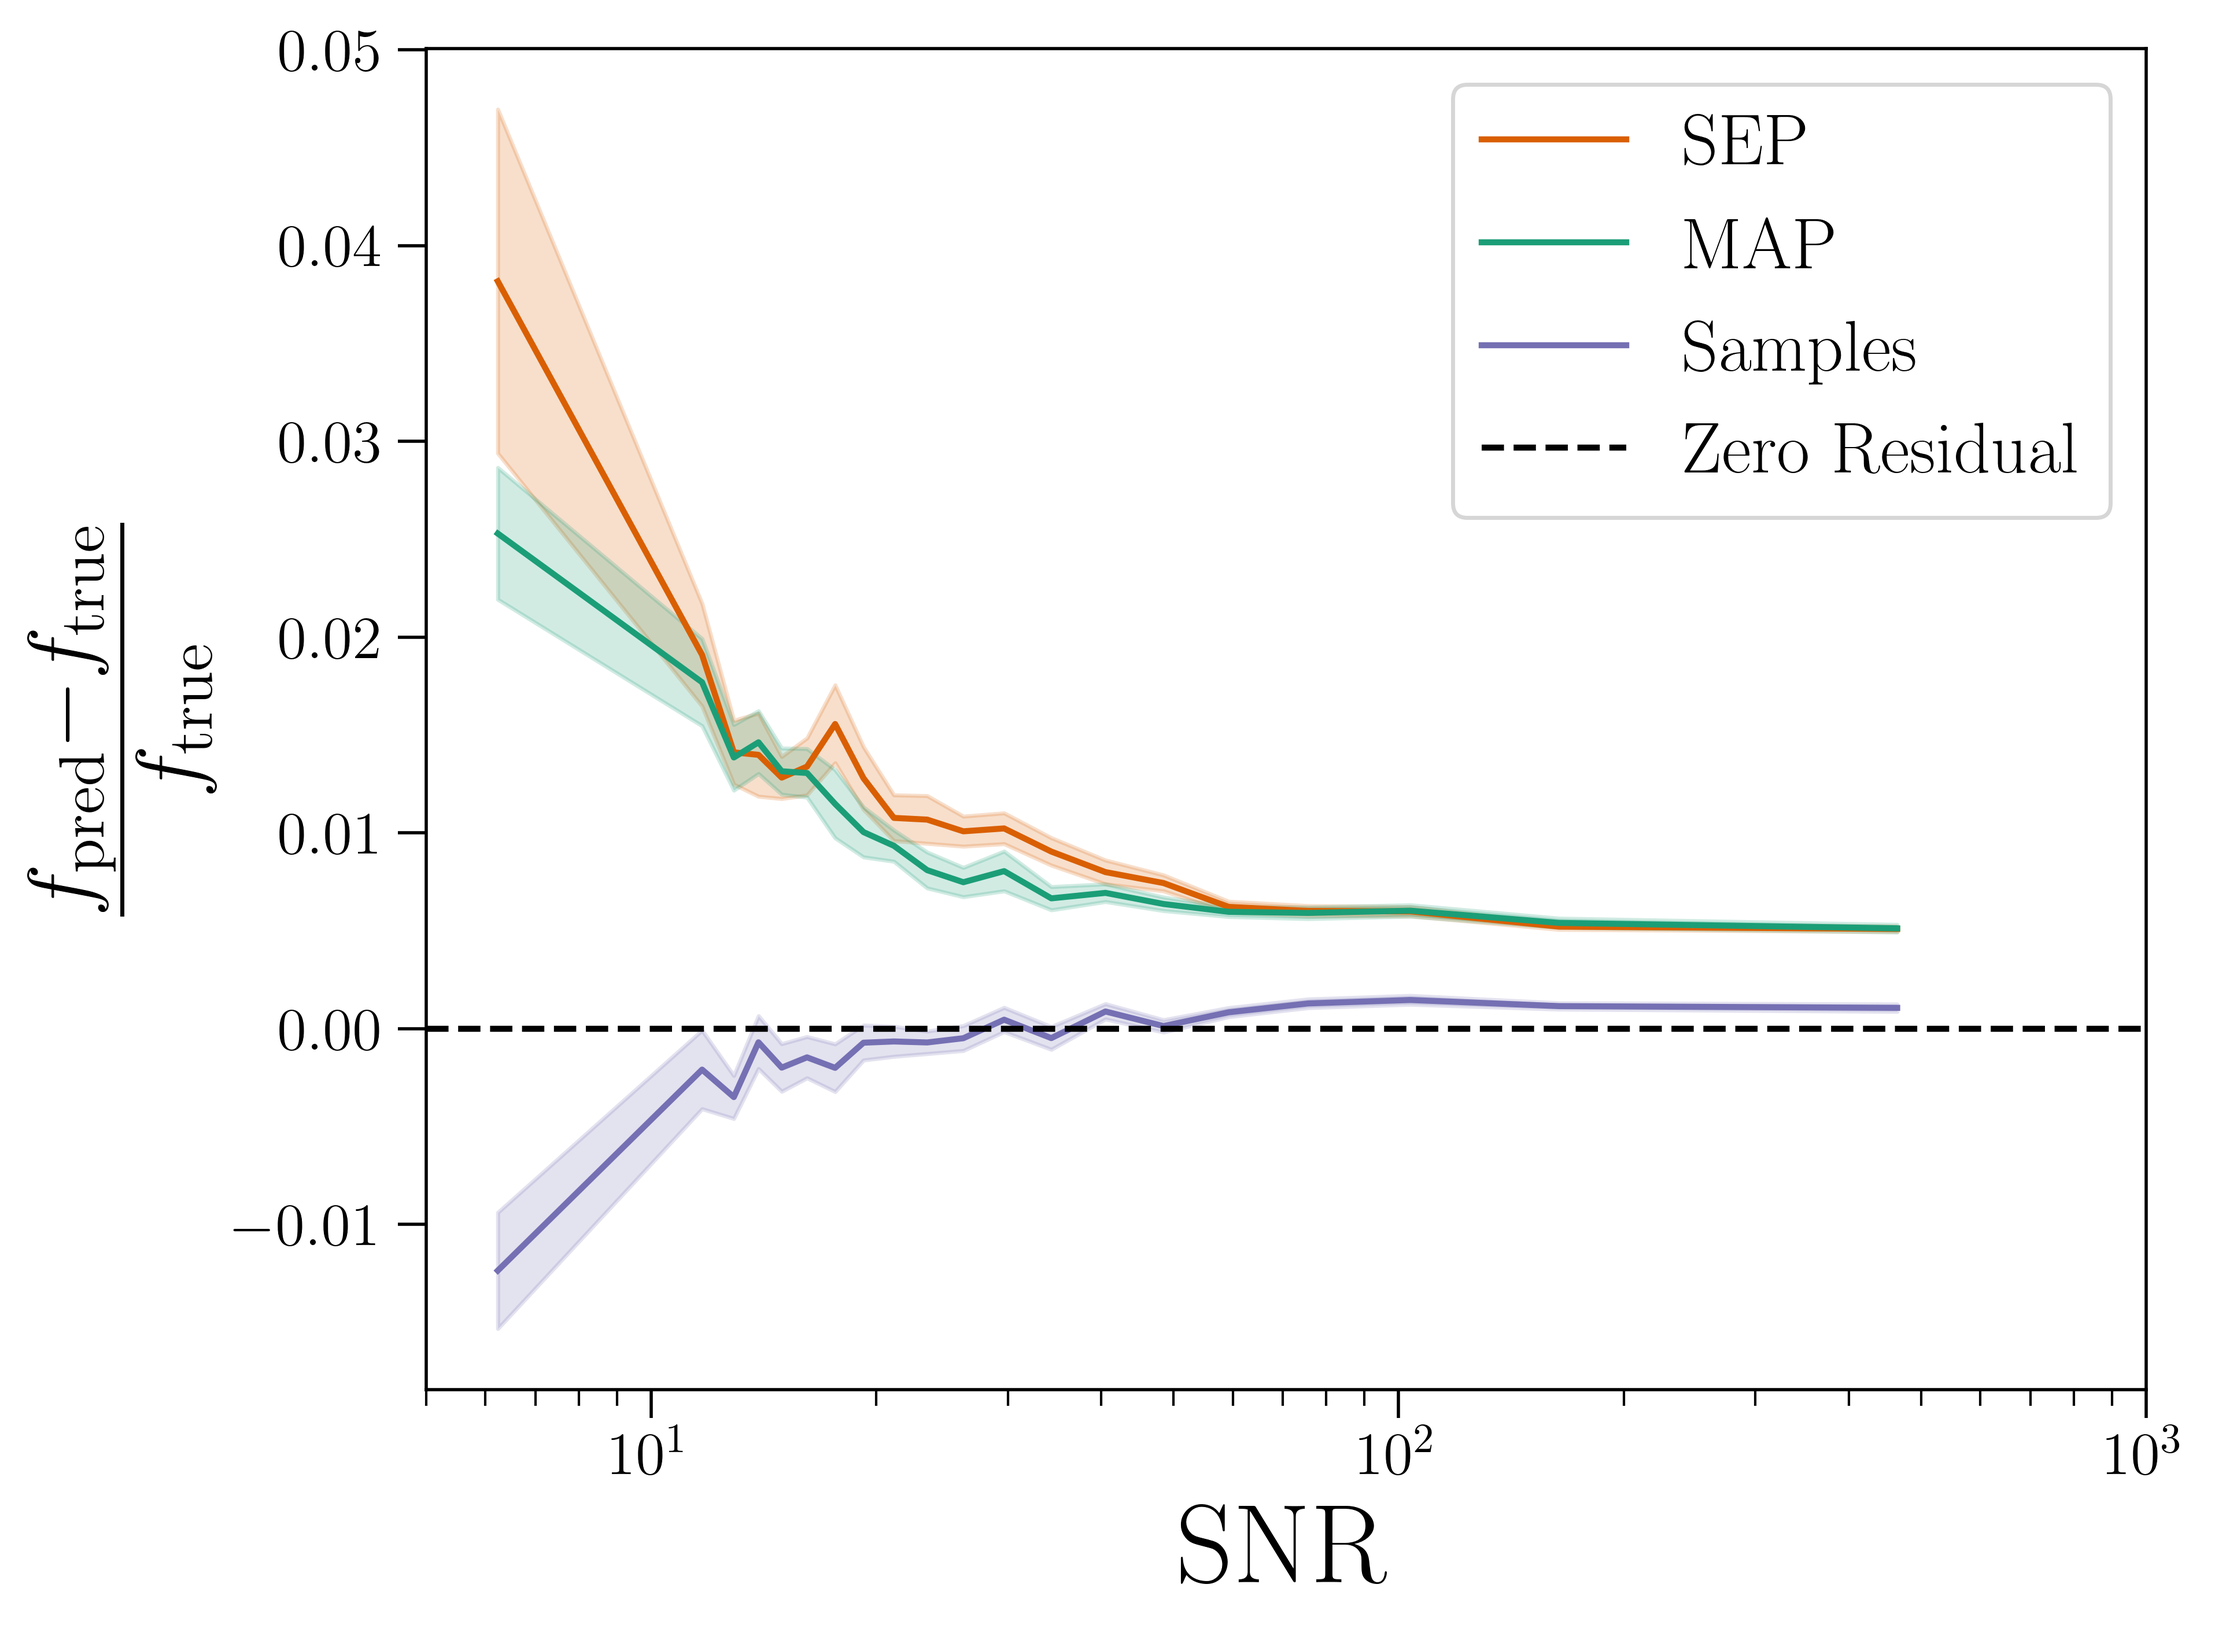
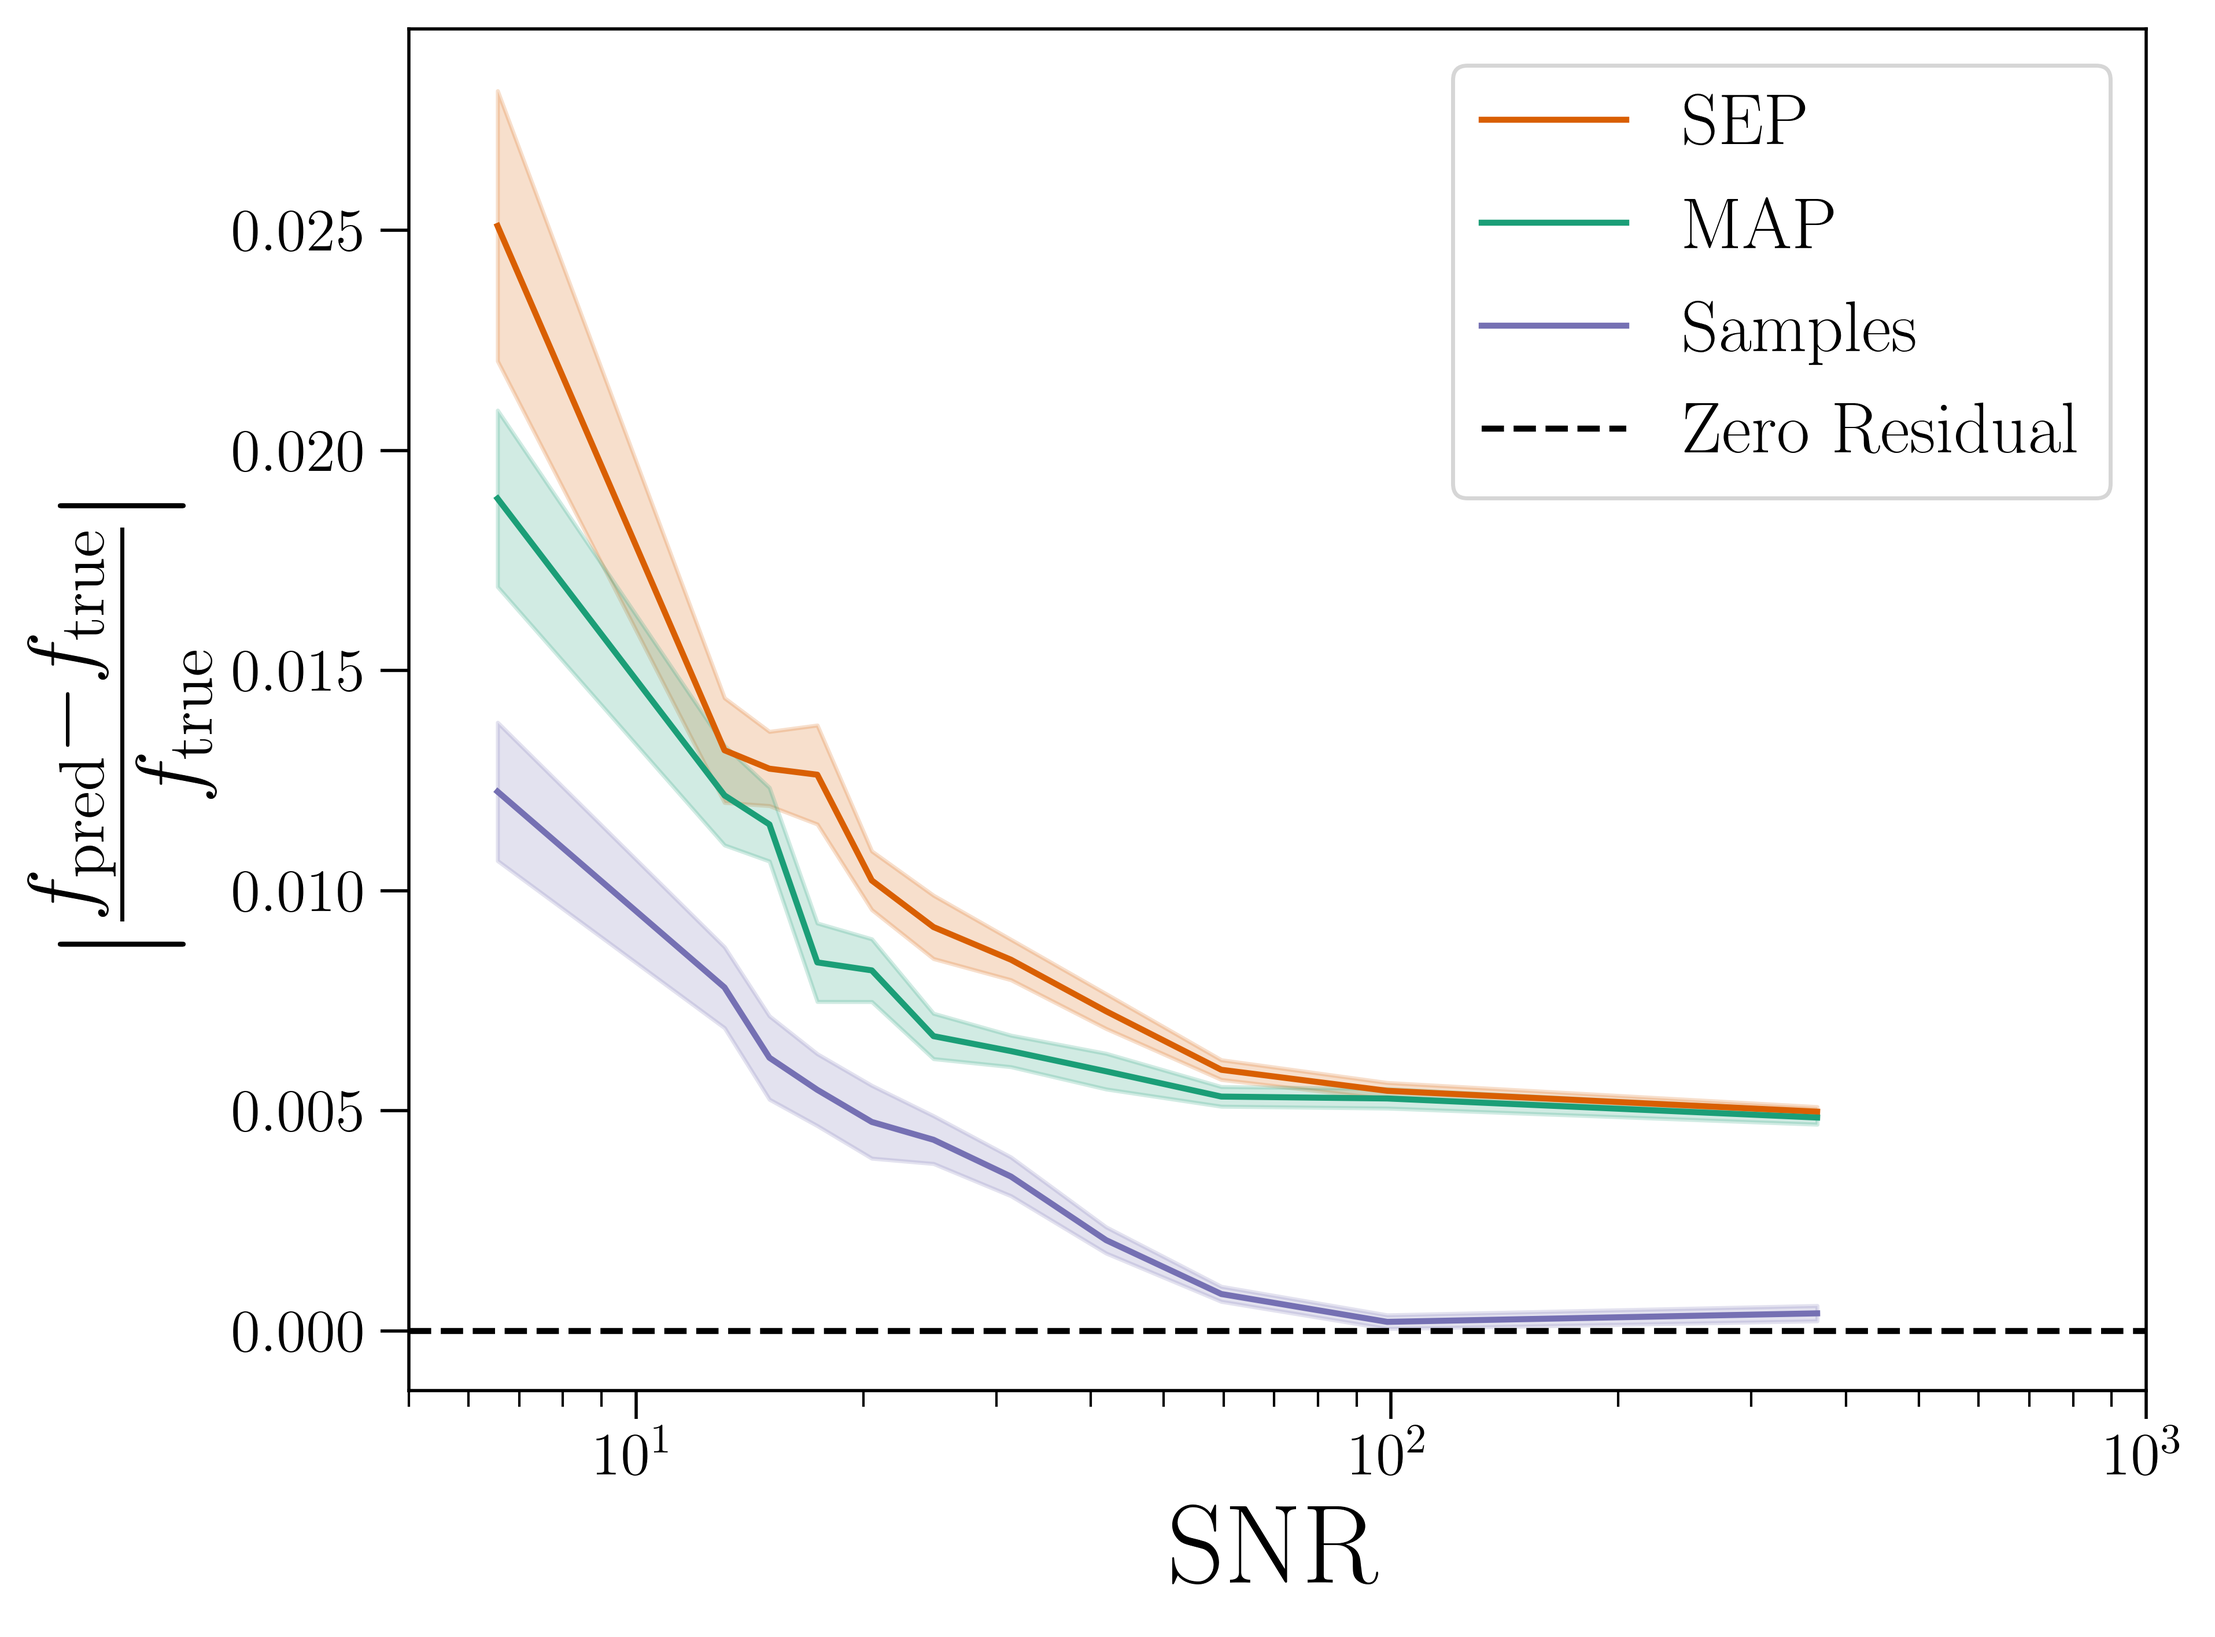
absolute value is OK final results

diff --git a/experiment/scripts/figures/sampling_figures.py b/experiment/scripts/figures/sampling_figures.py
@@ -438,6 +438,8 @@ def _get_diagnostic_figures(*, out_dir: Path, results: dict, tag_txt: str):
 
 
 def _make_final_results_figures(*, out_dir: Path, rslts: dict) -> None:
+    n_bins = 11
+
     # need to sort things first!!!!
     sorted_indices = [out["idx"] for out in rslts["outs"]]
     true_fluxes = rslts["true_flux"][sorted_indices][:, 0, 0]
@@ -470,14 +472,13 @@ def _make_final_results_figures(*, out_dir: Path, rslts: dict) -> None:
     res2 = (map_fluxes - true_fluxes) / true_fluxes
     res3 = (sep_fluxes - true_fluxes) / true_fluxes
 
-    print("# of images used:", sum(mask))
-    print("# of discarded images (non-detections):", len(mask) - sum(mask))
+    print("# of images used:", int(sum(mask)))
+    print("# of discarded images (non-detections):", int(len(mask) - sum(mask)))
 
     # get snr figure
     set_rc_params()
 
     # now snr
-    n_bins = 20
     out1 = equal_sized_bin_statistic(
         x=true_snr.log10(), y=res1, n_bins=n_bins, xlims=(0.5, 3), statistic="median"
     )
@@ -491,32 +492,32 @@ def _make_final_results_figures(*, out_dir: Path, rslts: dict) -> None:
     x = 10 ** out1["middles"]
 
     fig, ax = plt.subplots(1, 1, figsize=(8, 6))
-    ax.plot(x, out3["stats"], label=r"\rm SEP", marker="", color=CLR_CYCLE[2])
+    ax.plot(x, np.abs(out3["stats"]), label=r"\rm SEP", marker="", color=CLR_CYCLE[2])
     ax.fill_between(
         x,
-        out3["stats"] - out3["errs"],
-        out3["stats"] + out3["errs"],
+        np.abs(out3["stats"]) - out3["errs"],
+        np.abs(out3["stats"]) + out3["errs"],
         alpha=0.2,
         color=CLR_CYCLE[2],
     )
-    ax.plot(x, out2["stats"], label=r"\rm MAP", marker="", color=CLR_CYCLE[0])
+    ax.plot(x, np.abs(out2["stats"]), label=r"\rm MAP", marker="", color=CLR_CYCLE[0])
     ax.fill_between(
         x,
-        out2["stats"] - out2["errs"],
-        out2["stats"] + out2["errs"],
+        np.abs(out2["stats"]) - out2["errs"],
+        np.abs(out2["stats"]) + out2["errs"],
         alpha=0.2,
         color=CLR_CYCLE[0],
     )
-    ax.plot(x, out1["stats"], label=r"\rm Samples", marker="", color=CLR_CYCLE[1])
+    ax.plot(x, np.abs(out1["stats"]), label=r"\rm Samples", marker="", color=CLR_CYCLE[1])
     ax.fill_between(
         x,
-        out1["stats"] - out1["errs"],
-        out1["stats"] + out1["errs"],
+        np.abs(out1["stats"]) - out1["errs"],
+        np.abs(out1["stats"]) + out1["errs"],
         alpha=0.2,
         color=CLR_CYCLE[1],
     )
     ax.set_xlabel(r"\rm SNR", fontsize=28)
-    ax.set_ylabel(r"$\frac{f_{\rm pred} - f_{\rm true}}{f_{\rm true}}$", fontsize=32)
+    ax.set_ylabel(r"$\lvert \frac{f_{\rm pred} - f_{\rm true}}{f_{\rm true}} \rvert$", fontsize=32)
     ax.axhline(0, color="k", linestyle="--", label=r"\rm Zero Residual")
     ax.legend()
     ax.set_xlim(5, 1000)
@@ -525,58 +526,48 @@ def _make_final_results_figures(*, out_dir: Path, rslts: dict) -> None:
 
     # as a function of blendedness
     # first define bins (as described in paper)
+    n_bins = 21
     qs = torch.linspace(0.12, 0.99, 21)
     edges = bld.quantile(qs)
     bins = torch.tensor([0.0, *edges[1:-1], 1.0])
+    print(f"Edge BLD 1: {edges[1]:.10f}")
+    print(f"Edge BLD -2: {edges[-2]:.10f}")
 
-    out1 = binned_statistic(
-        x=bld,
-        y=res1,
-        bins=bins,
-        statistic="median",
-    )
-    out2 = binned_statistic(
-        x=bld,
-        y=res2,
-        bins=bins,
-        statistic="median",
-    )
-    out3 = binned_statistic(
-        x=bld,
-        y=res3,
-        bins=bins,
-        statistic="median",
-    )
+    out1 = binned_statistic(x=bld, y=res1, bins=bins, statistic="median")
+    out2 = binned_statistic(x=bld, y=res2, bins=bins, statistic="median")
+    out3 = binned_statistic(x=bld, y=res3, bins=bins, statistic="median")
 
     fig, ax = plt.subplots(1, 1, figsize=(8, 6))
-    ax.plot(out3["middles"], out3["stats"], label=r"\rm SEP", marker="", color=CLR_CYCLE[2])
+    ax.plot(out3["middles"], np.abs(out3["stats"]), label=r"\rm SEP", marker="", color=CLR_CYCLE[2])
     ax.fill_between(
         out3["middles"],
-        out3["stats"] - out3["errs"],
-        out3["stats"] + out3["errs"],
+        np.abs(out3["stats"]) - out3["errs"],
+        np.abs(out3["stats"]) + out3["errs"],
         alpha=0.2,
         color=CLR_CYCLE[2],
     )
-    ax.plot(out2["middles"], out2["stats"], label=r"\rm MAP", marker="", color=CLR_CYCLE[0])
+    ax.plot(out2["middles"], np.abs(out2["stats"]), label=r"\rm MAP", marker="", color=CLR_CYCLE[0])
     ax.fill_between(
         out2["middles"],
-        out2["stats"] - out2["errs"],
-        out2["stats"] + out2["errs"],
+        np.abs(out2["stats"]) - out2["errs"],
+        np.abs(out2["stats"]) + out2["errs"],
         alpha=0.2,
         color=CLR_CYCLE[0],
     )
-    ax.plot(out1["middles"], out1["stats"], label=r"\rm Samples", marker="", color=CLR_CYCLE[1])
+    ax.plot(
+        out1["middles"], np.abs(out1["stats"]), label=r"\rm Samples", marker="", color=CLR_CYCLE[1]
+    )
     ax.fill_between(
         out1["middles"],
-        out1["stats"] - out1["errs"],
-        out1["stats"] + out1["errs"],
+        np.abs(out1["stats"]) - out1["errs"],
+        np.abs(out1["stats"]) + out1["errs"],
         alpha=0.2,
         color=CLR_CYCLE[1],
     )
     ax.set_xlabel(r"\rm Blendedness", fontsize=28)
-    ax.set_ylabel(r"$\frac{f_{\rm pred} - f_{\rm true}}{f_{\rm true}}$", fontsize=32)
+    ax.set_ylabel(r"$\lvert \frac{f_{\rm pred} - f_{\rm true}}{f_{\rm true}} \rvert$", fontsize=32)
     ax.set_yscale("log")
-    ax.set_ylim(0.004, 10)
+    ax.set_ylim(0.004, 20)
     ax.legend(prop={"size": 22})
     fig.savefig(out_dir / "samples_bld_res.png", dpi=500, bbox_inches="tight")
 
@@ -639,7 +630,6 @@ def main(
             sources=ds["uncentered_sources"],
             no_bar=False,
         )
-        true_snr = true_meas["snr"]
 
         # lets get models
         detection = DetectionEncoder().to(device).eval()
@@ -671,7 +661,7 @@ def main(
             {
                 "outs": outs,
                 "bld": bld,
-                "true_snr": true_snr,
+                "true_snr": true_meas["snr"],
                 "true_flux": true_meas["flux"],
                 "true_plocs": truth.plocs,
                 "true_n_sources": truth.n_sources,
